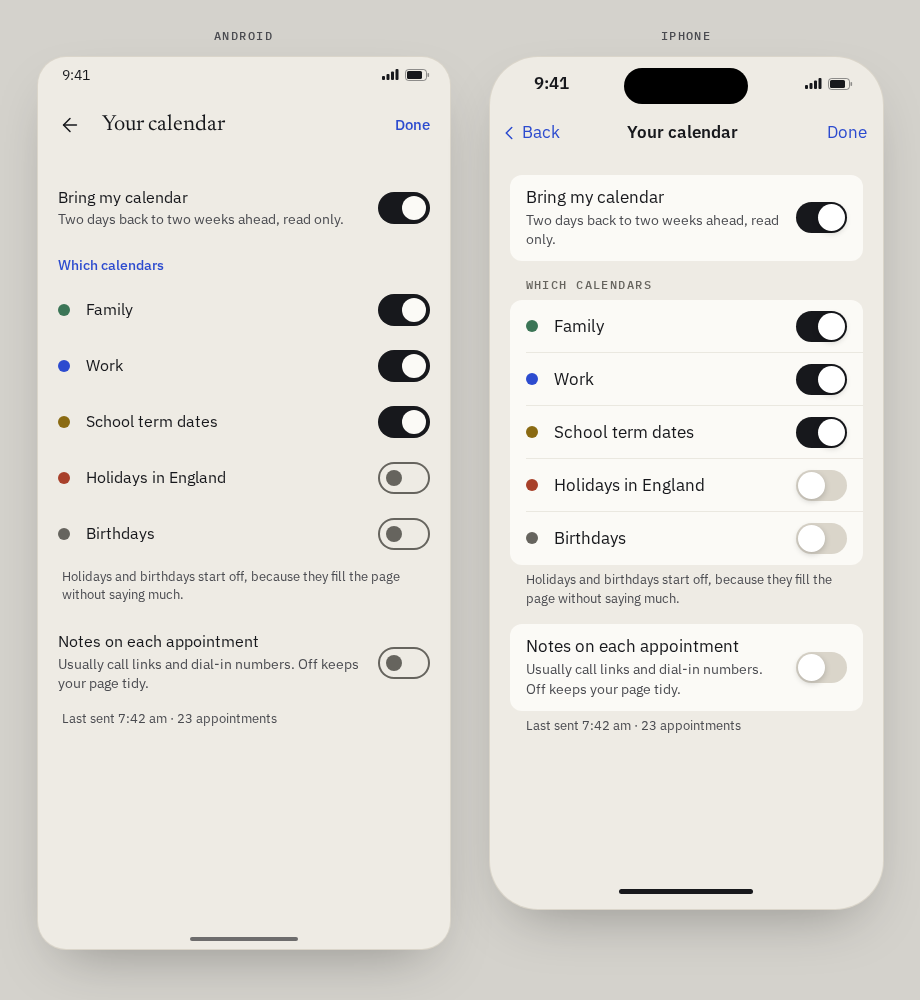
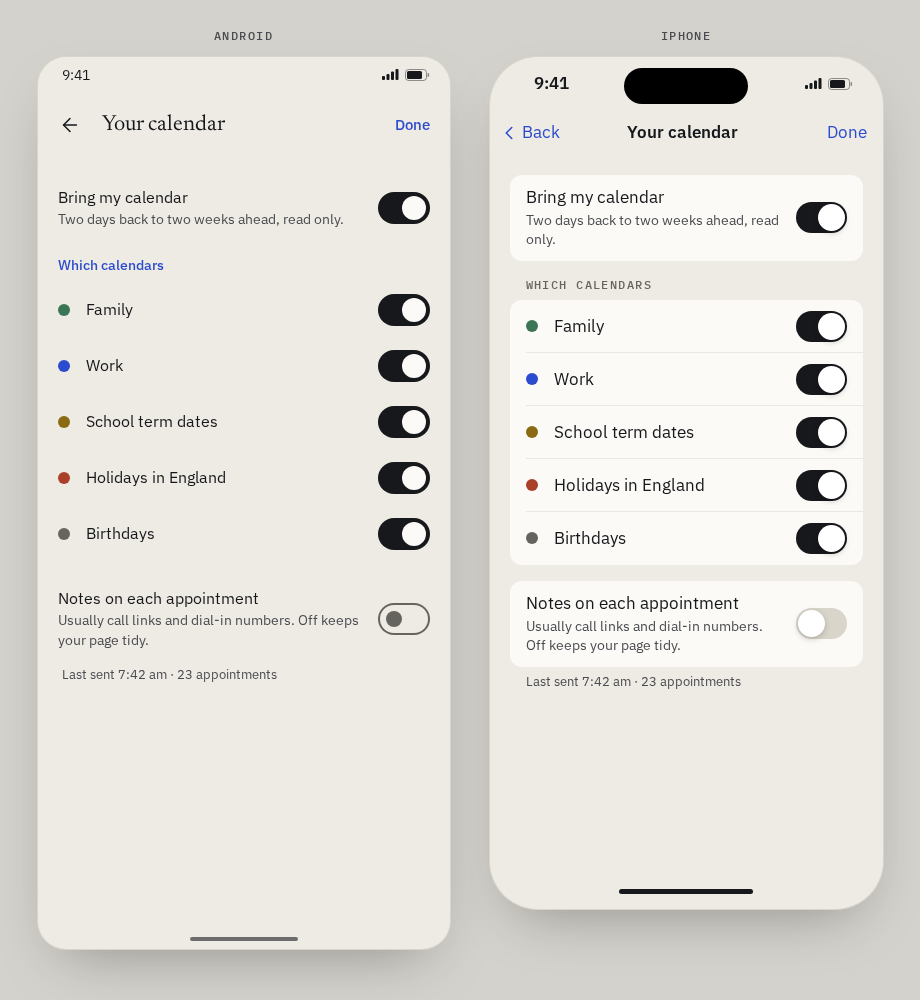
docs(design): show every calendar on in the mockup

diff --git a/docs/design/mockups/phone-apps/calendar.html b/docs/design/mockups/phone-apps/calendar.html
@@ -88,10 +88,9 @@
       <div class="row"><span class="cdot" style="background: #3B7556"></span><span class="rowText"><span class="rowLabel">Family</span></span><span class="sw"></span></div>
       <div class="row"><span class="cdot" style="background: #2C4BCF"></span><span class="rowText"><span class="rowLabel">Work</span></span><span class="sw"></span></div>
       <div class="row"><span class="cdot" style="background: #8A6A12"></span><span class="rowText"><span class="rowLabel">School term dates</span></span><span class="sw"></span></div>
-      <div class="row"><span class="cdot" style="background: #A8402A"></span><span class="rowText"><span class="rowLabel">Holidays in England</span></span><span class="sw off"></span></div>
-      <div class="row"><span class="cdot" style="background: #66645E"></span><span class="rowText"><span class="rowLabel">Birthdays</span></span><span class="sw off"></span></div>
+      <div class="row"><span class="cdot" style="background: #A8402A"></span><span class="rowText"><span class="rowLabel">Holidays in England</span></span><span class="sw"></span></div>
+      <div class="row"><span class="cdot" style="background: #66645E"></span><span class="rowText"><span class="rowLabel">Birthdays</span></span><span class="sw"></span></div>
     </div>
-    <p class="gfoot">Holidays and birthdays start off, because they fill the page without saying much.</p>
   </div>
   <div class="group" data-state="pick">
     <div class="rows">

diff --git a/docs/logs/2026-11/23-calendar-mockup-starts-every-calendar-on.md b/docs/logs/2026-11/23-calendar-mockup-starts-every-calendar-on.md
@@ -1,0 +1,11 @@
+---
+type: Log Entry
+title: "The calendar mockup starts every calendar on."
+description: "The phone apps calendar choice mockup now shows every calendar on, as the design decided, including holidays and birthdays."
+tags: [log, update]
+kind: Changed
+status: stable
+---
+
+The [phone apps](/design/phone-apps.md) calendar choice mockup and its render now show every
+calendar on, holidays and birthdays included, matching the decision that every calendar starts on.
